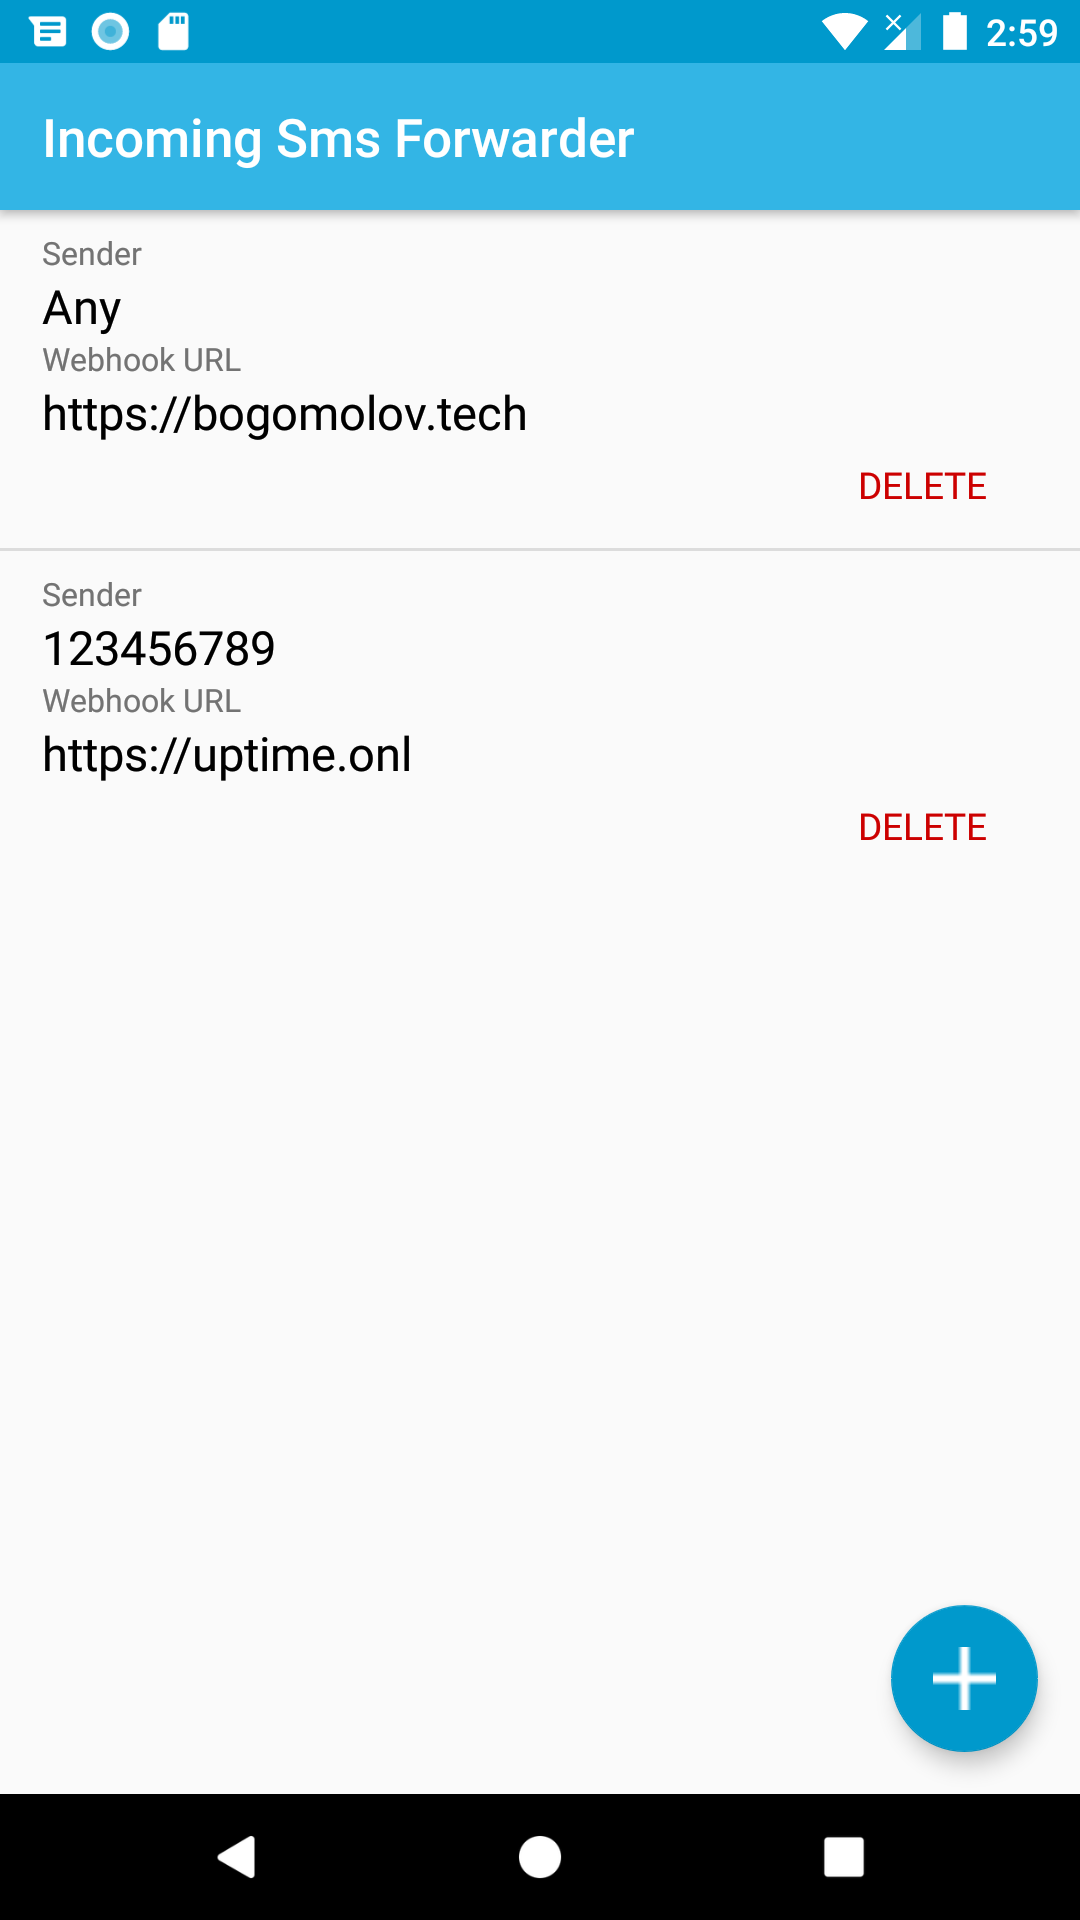
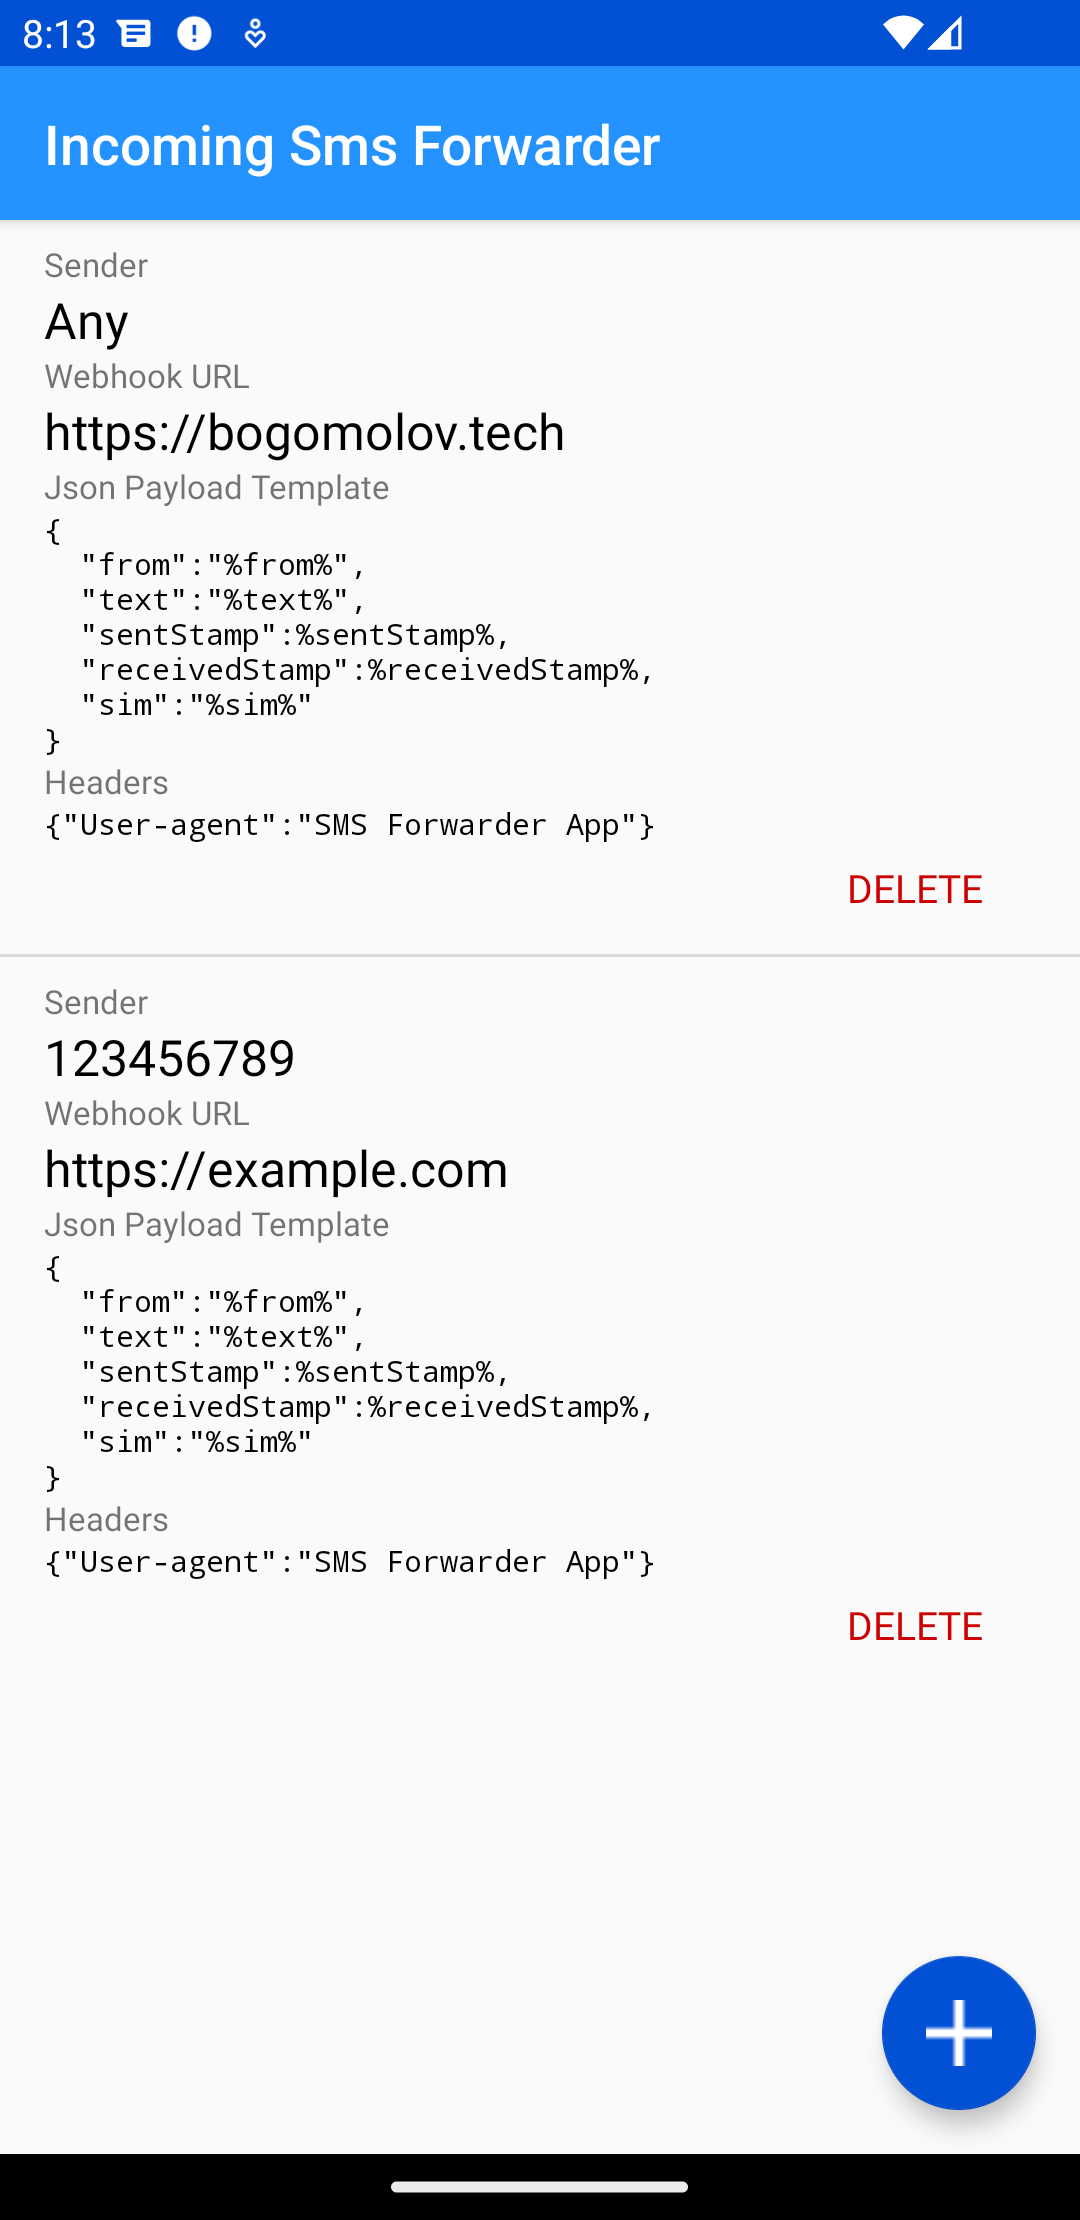
Update readme

diff --git a/README.md b/README.md
@@ -14,16 +14,43 @@ If the phone is not connected to the internet, the app will wait for the connect
 ### Request info
 HTTP method: POST  
 Content-type: application/json; charset=utf-8  
-User-agent: SMS Forwarder App  
+
+Sample payload:  
+```json
+{
+     "from": "%from%",
+     "text": "%text%",
+     "sentStamp": "%sentStamp%",
+     "receivedStamp": "%receivedStamp%",
+     "sim": "%sim%"
+}
+```
+
+Available placeholders:
+%from%
+%text%
+%sentStamp%
+%receivedStamp%
+%sim%
 
 ### Request example
 Use this curl sample request to prepare your backend code
 ```bash
 curl -X 'POST' 'https://yourwebsite.com/path' \
-     -H 'user-agent: SMS Forwarder App' \
      -H 'content-type: application/json; charset=utf-8' \
      -d $'{"from":"1234567890","text":"Test"}'
 ```
+
+### Send SMS to the Telegram
+
+1. Create Telegram bot and channel to receive messages. [There](https://bogomolov.tech/Telegram-notification-on-SSH-login/) is short tutorial how to do that.  
+2. Add new forwarding configuration in the app using this parameters:
+   1. Any sender you need, * - on the screenshot
+   2. Webhook URL - https://api.telegram.org/bot<YourBOTToken>/sendMessage?chat_id=<channel_id> - change URL using your token and channel id
+   3. Use this payload as a sample `{"text":"sms from %from% with text: \"%text%\" sent at %sentStamp%"}`
+   4. Save configuration
+
+<img alt="Incoming SMS Webhook Gateway screenshot Telegram example" src="https://raw.githubusercontent.com/bogkonstantin/android_income_sms_gateway_webhook/master/fastlane/metadata/android/en-US/images/phoneScreenshots/telegram.png" width="30%"/> 
 
 ## Screenshots
 <img alt="Incoming SMS Webhook Gateway screenshot 1" src="https://raw.githubusercontent.com/bogkonstantin/android_income_sms_gateway_webhook/master/fastlane/metadata/android/en-US/images/phoneScreenshots/1.png" width="30%"/> <img alt="Incoming SMS Webhook Gateway screenshot 2" src="https://raw.githubusercontent.com/bogkonstantin/android_income_sms_gateway_webhook/master/fastlane/metadata/android/en-US/images/phoneScreenshots/2.png" width="30%"/> <img alt="Incoming SMS Webhook Gateway screenshot 3" src="https://raw.githubusercontent.com/bogkonstantin/android_income_sms_gateway_webhook/master/fastlane/metadata/android/en-US/images/phoneScreenshots/3.png" width="30%"/>
